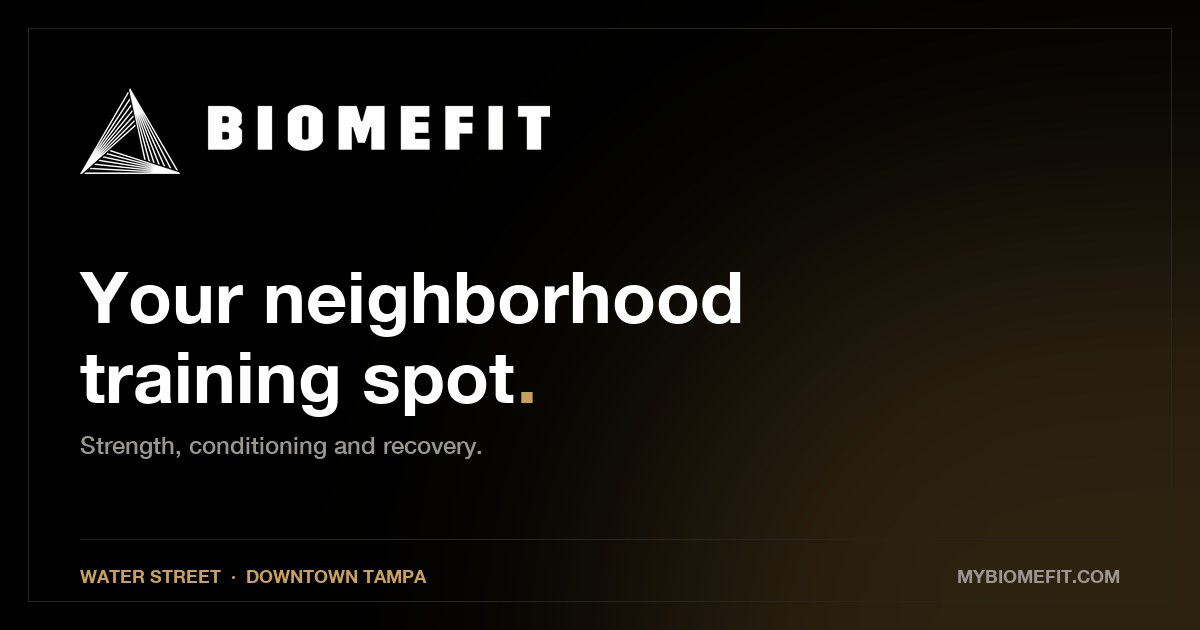
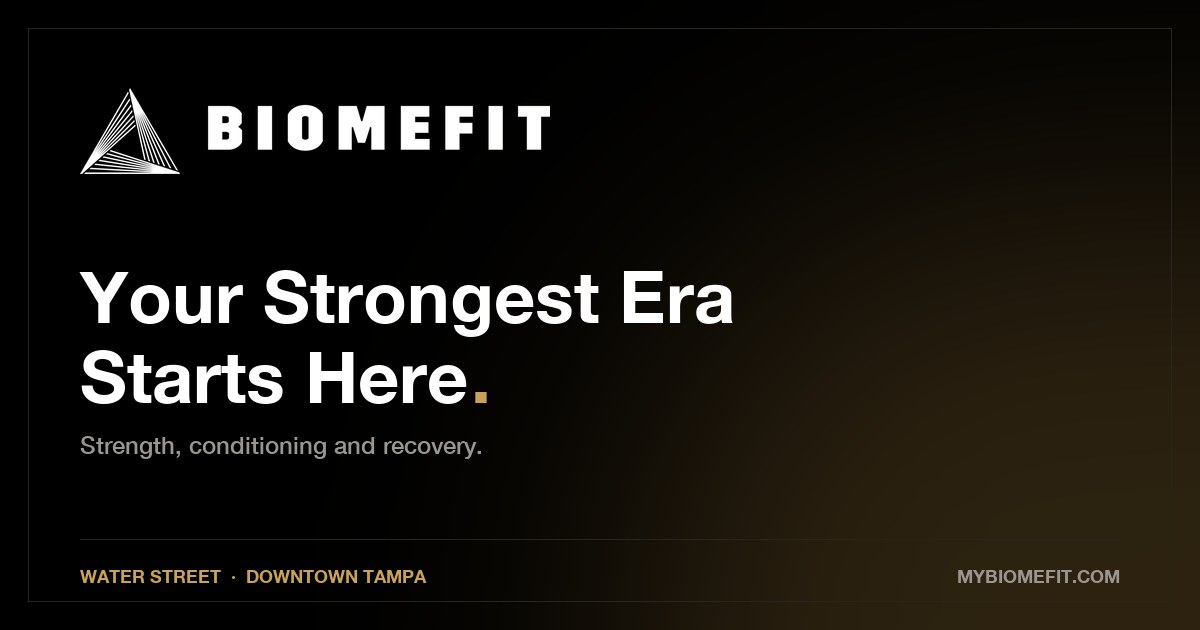
New hero headline: Your Strongest Era Starts Here.
Updated everywhere it appears so the page and the share card agree:
the h1, both og:image:alt tags, and the regenerated og-image.jpg /
og-square.jpg.

At the old size the headline broke as 'Your Strongest / Era / Starts
Here.', orphaning 'Era' on its own line on every phone. Measured the
rendered text against the available width and retuned the h1 from
clamp(42px,8.6vw,138px) to clamp(28px,10.2vw,138px), so line one stays
whole from 320px up:

  320 -> 33px / 273px text in 280px   360 -> 37px / 308 in 320
  375 -> 38px / 320px in 335px        390 -> 40px / 333 in 350
  414 -> 42px / 354px in 373px

Changed region(s): [[0.0617, 0.5429, 0.4625, 0.6635], [0.2158, 0.4222, 0.6167, 0.5429]]

diff --git a/index.html b/index.html
@@ -34,7 +34,7 @@
 <meta property="og:image" content="https://www.mybiomefit.com/assets/social/og-image.jpg">
 <meta property="og:image:width" content="1200">
 <meta property="og:image:height" content="630">
-<meta property="og:image:alt" content="Biomefit — your neighborhood training spot. Water Street, Downtown Tampa.">
+<meta property="og:image:alt" content="Biomefit — your strongest era starts here. Water Street, Downtown Tampa.">
 
 <meta name="twitter:card" content="summary_large_image">
 <meta name="twitter:title" content="Biomefit — Strength &amp; Recovery · Water Street, Tampa">
@@ -87,8 +87,8 @@
   <video src="assets/video/hero-web-720.mp4" autoplay muted loop playsinline preload="auto"></video>
   <div class="hero-inner wrap">
     <h1 class="display">
-      <span class="ln"><span>Your neighborhood</span></span>
-      <span class="ln"><span>training spot<em class="gold">.</em></span></span>
+      <span class="ln"><span>Your Strongest Era</span></span>
+      <span class="ln"><span>Starts Here<em class="gold">.</em></span></span>
     </h1>
     <div class="hero-cta">
       <a class="btn btn--light" href="schedule.html"><span>View the schedule</span><span class="ar">→</span></a>

diff --git a/schedule.html b/schedule.html
@@ -27,7 +27,7 @@
 <meta property="og:image" content="https://www.mybiomefit.com/assets/social/og-image.jpg">
 <meta property="og:image:width" content="1200">
 <meta property="og:image:height" content="630">
-<meta property="og:image:alt" content="Biomefit — your neighborhood training spot. Water Street, Downtown Tampa.">
+<meta property="og:image:alt" content="Biomefit — your strongest era starts here. Water Street, Downtown Tampa.">
 
 <meta name="twitter:card" content="summary_large_image">
 <meta name="twitter:title" content="Book a class — Biomefit · Water Street, Tampa">

diff --git a/assets/site.css b/assets/site.css
@@ -188,7 +188,7 @@ body.open .menu-foot{opacity:1}
 }
 .hero-inner{position:relative;z-index:2;width:100%;padding-block:clamp(96px,14vh,150px) clamp(44px,8vh,96px)}
 
-.hero h1{font-size:clamp(42px,8.6vw,138px);margin-bottom:0}
+.hero h1{font-size:clamp(28px,10.2vw,138px);margin-bottom:0}
 .hero h1 .ln{display:block;overflow:hidden;padding-bottom:.18em;margin-bottom:-.18em}
 .hero h1 .ln>span{display:block;transform:translateY(105%);animation:rise 1s cubic-bezier(.16,1,.3,1) forwards}
 .hero h1 .ln:nth-child(1)>span{animation-delay:.18s}
